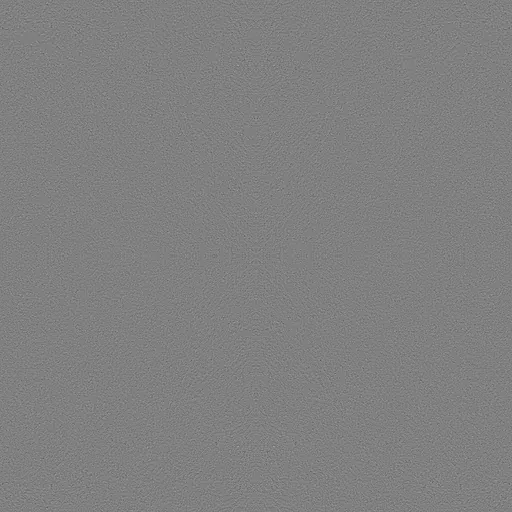
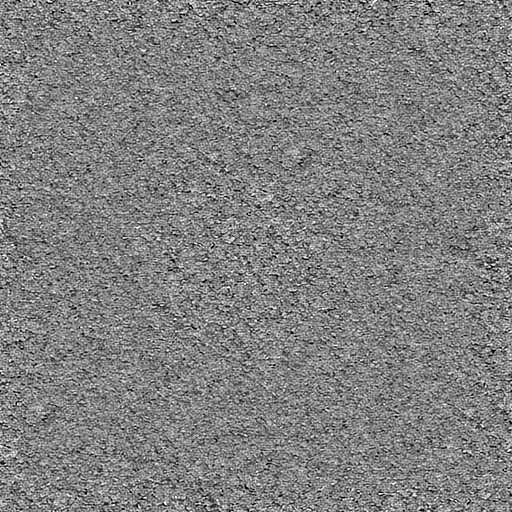
feat: visible grass/dirt grain in every view; batted-ball scene goes back to the old stands
- stronger seamless grain textures (destriped grass, clay dirt with medium mottling)
- 3D ground: grain laid per 45ft cell with an affine pattern transform, fades out where it would shimmer
- 3D stands use field.webp (the previous crowd art) so fans do not look huge up close

diff --git a/js/ui/art/field3d.js b/js/ui/art/field3d.js
@@ -1,7 +1,7 @@
 // 3D 타구 화면: playscript 대본을 중계 카메라처럼 그린다.
 // 경기장·공·선수를 3D 좌표(피트)로 두고, 홈 뒤 높은 곳의 카메라가 공과 수비수를 따라 돌고 당겨서(줌) 비춘다.
 import { toSec, trackAt, ballAt, fenceAt, BASES, polar, FENCE_H, jumpZ } from './playscript.js';
-import { standsImage } from './stadium.js';
+import { standsImage, groundTexture } from './stadium.js';
 import { drawBall } from './figures.js';
 import { fieldSprite, fieldCount, FIELD_PX } from './sprites.js';
 
@@ -160,7 +160,7 @@ function texQuad3(ctx, K, img, P, UV, color) {
 const quadFill = (ctx, ps, color) => { ctx.fillStyle = color; ctx.beginPath(); ps.forEach((p, i) => i ? ctx.lineTo(p.x, p.y) : ctx.moveTo(p.x, p.y)); ctx.closePath(); ctx.fill(); };
 const offscreen = (K, ps) => ps.every(p => p.x < -50) || ps.every(p => p.x > K.W + 50) || ps.every(p => p.y < -50) || ps.every(p => p.y > K.H + 50);
 const SPAN_A = 54;                                        // 외야 관중석 그림이 덮는 각도(±), 폴 옆 꺾인 곳까지
-const DEP = 175, HT = 215, ROW = 675, TOP = 250;          // 관중석: 바깥으로 DEP, 펜스 위로 HT 만큼 올라가는 경사면 / 그림에서 쓰는 줄(TOP~ROW: 전광판 아래 관중만)
+const DEP = 175, HT = 215, ROW = 675;                     // 관중석: 바깥으로 DEP, 펜스 위로 HT 만큼 올라가는 경사면 / 그림에서 쓰는 높이
 // 파울 지역 옆 관중석: 아랫단(b)·바깥 방향(o)·단면(pr: [바깥 거리, 높이] 세 점 = 아래층·위층)·위아래층 경계의 그림 높이(v)·그림 가로 위치(u, 0..1).
 // 외야 관중석 끝에서 시작해 바깥 방향을 파울 쪽 벽에 수직으로 서서히 돌리고, 그림은 끝에서 거울처럼 되짚어 이어 붙인다.
 // 중계 카메라(홈 뒤 62피트)는 파울 쪽 벽을 늘인 선보다 바깥에 있어서, 외야처럼 가파르면 경사면 뒤쪽이 보인다(= 안 그려져 하늘이 뚫림).
@@ -195,7 +195,7 @@ const SIDE = (() => {
   return out;
 })();
 function drawStands(ctx, K, crowdTint) {
-  const img = standsImage('catcher');
+  const img = standsImage('field');
   // 외야: 관중석 그림을 펜스 뒤에 빙 둘러 세운다
   const step = 2;
   for (let a = -SPAN_A; a < SPAN_A - 0.01; a += step) {
@@ -205,7 +205,7 @@ function drawStands(ctx, K, crowdTint) {
     const bl = project(K, [...polar(a, R0), FENCE_H]), br = project(K, [...polar(a1, R1), FENCE_H]);
     if (!tl || !tr || !bl || !br || offscreen(K, [tl, tr, bl, br])) continue;
     if (!img) quadFill(ctx, [tl, tr, br, bl], crowdTint);
-    else imgQuad(ctx, img, (a + SPAN_A) / (2 * SPAN_A) * img.width, (a1 + SPAN_A) / (2 * SPAN_A) * img.width, TOP, ROW, tl, tr, bl, br);
+    else imgQuad(ctx, img, (a + SPAN_A) / (2 * SPAN_A) * img.width, (a1 + SPAN_A) / (2 * SPAN_A) * img.width, 0, ROW, tl, tr, bl, br);
   }
   // 파울 지역 옆 관중석: 외야 관중석 끝(폴 옆 꺾인 곳)에서 같은 높이·경사로 홈 쪽까지 이어 붙인다.
   // (예전엔 낮은 관중석만 따로 두어서, 좌중간·우중간을 비추면 그 위로 하늘이 뚫려 관중석 조각이 떠 보였다)
@@ -221,7 +221,7 @@ function drawStands(ctx, K, crowdTint) {
       if ((K.C[0] - lo[0]) * n[0] + (K.C[1] - lo[1]) * n[1] + (K.C[2] - lo[2]) * n[2] < 0) continue;
       // 위아래로 몇 조각 나눠 그린다(가까이서 크게 보일 때 그림이 덜 일그러지게)
       const T0 = at(p0, layer + 1), T1 = at(p1, layer + 1), B0 = at(p0, layer), B1 = at(p1, layer);
-      const u0 = p0.u * (img ? img.width : 1), u1 = p1.u * (img ? img.width : 1), v0 = layer ? TOP : p0.v, v1 = layer ? p0.v : ROW;
+      const u0 = p0.u * (img ? img.width : 1), u1 = p1.u * (img ? img.width : 1), v0 = layer ? 0 : p0.v, v1 = layer ? p0.v : ROW;
       const N = 3, mix = (a, b, k) => [lerp(a[0], b[0], k), lerp(a[1], b[1], k), lerp(a[2], b[2], k)];
       for (let j = 0; j < N; j++) {
         const k0 = j / N, k1 = (j + 1) / N, va = lerp(v0, v1, k0), vb = lerp(v0, v1, k1);
@@ -233,7 +233,7 @@ function drawStands(ctx, K, crowdTint) {
 // 카메라 가까운 쪽 관중석: 아래층 관중 그림을 무늬로 깔고, 카메라를 따라 움직이게 한다
 let crowdPat = null;
 function drawOuter(ctx, K) {
-  const img = standsImage('catcher');
+  const img = standsImage('field');
   if (img && !crowdPat) {
     const c = document.createElement('canvas'); c.width = Math.round(img.width * 0.35); c.height = Math.round(235 * 0.35);
     const x = c.getContext('2d');
@@ -249,6 +249,29 @@ function drawOuter(ctx, K) {
   } else ctx.fillStyle = '#2c333f';
   ctx.fill();
 }
+// 사진에서 뽑은 잔디·흙 결을 바닥에 입힌다: 바닥을 칸으로 나눠 칸마다 무늬를 원근(아핀)에 맞춰 overlay로 칠한다.
+// 아주 멀어서 무늬가 자글거릴 칸은 점점 흐리게, 카메라 뒤로 넘어간 칸은 건너뛴다
+const CELL = 45, TEX_FT = 55;                             // 칸 크기(피트), 무늬 한 장(512px)이 덮는 길이(피트)
+function groundGrain(ctx, K, k, clipPts, x0, x1, y0, y1, alpha) {
+  const img = groundTexture(k);
+  if (!img || !polyPath(ctx, K, clipPts)) return;
+  ctx.save(); ctx.clip(); ctx.globalCompositeOperation = 'overlay';
+  const pat = ctx.createPattern(img, 'repeat'), tp = 512 / TEX_FT;
+  if (!pat.setTransform) { ctx.restore(); return; }
+  for (let x = x0; x < x1; x += CELL) for (let y = y0; y < y1; y += CELL) {
+    const a = project(K, [x, y, 0]), b = project(K, [x + CELL, y, 0]), c = project(K, [x, y + CELL, 0]), d = project(K, [x + CELL, y + CELL, 0]);
+    if (!a || !b || !c || !d || offscreen(K, [a, b, c, d])) continue;
+    const du = CELL * tp, m = new DOMMatrix([(b.x - a.x) / du, (b.y - a.y) / du, (c.x - a.x) / du, (c.y - a.y) / du, 0, 0]);
+    const px = Math.sqrt(Math.abs(m.a * m.d - m.b * m.c));      // 무늬 한 칸이 화면에서 몇 픽셀인지
+    const f = Math.min(1, Math.max(0, (px - 0.12) / 0.3));
+    if (f <= 0) continue;
+    m.e = a.x - m.a * x * tp - m.c * y * tp; m.f = a.y - m.b * x * tp - m.d * y * tp;
+    pat.setTransform(m);
+    ctx.globalAlpha = alpha * f; ctx.fillStyle = pat;
+    ctx.beginPath(); ctx.moveTo(a.x, a.y); ctx.lineTo(b.x, b.y); ctx.lineTo(d.x, d.y); ctx.lineTo(c.x, c.y); ctx.closePath(); ctx.fill();
+  }
+  ctx.restore();
+}
 function drawGround(ctx, K, bases) {
   fillPoly(ctx, K, RING, '#3a8a45');
   // 잔디 깎은 무늬(페어 지역만)
@@ -260,9 +283,13 @@ function drawGround(ctx, K, bases) {
     for (let x = -330; x < 330; x += 30) if (polyPath(ctx, K, [[x, 0], [x + 15, 0], [x + 15, 430], [x, 430]])) ctx.fill();
     ctx.restore();
   }
+  groundGrain(ctx, K, 'grass_tex', RING, -450, 450, -90, 450, 0.65);   // 흙은 그 위에 덮어 칠한다
   fillPoly(ctx, K, TRACK, '#a07a52');
   fillPoly(ctx, K, DIRT, '#b98a5e');
+  groundGrain(ctx, K, 'dirt_tex', DIRT, -100, 100, -40, 160, 0.8);
+  groundGrain(ctx, K, 'dirt_tex', TRACK, -450, 450, 150, 450, 0.8);
   fillPoly(ctx, K, INGRASS, '#3f9049');
+  groundGrain(ctx, K, 'grass_tex', INGRASS, -60, 60, 10, 120, 0.65);
   fillPoly(ctx, K, circle(0, 60.5, 9, 20), '#c2946a');
   fillPoly(ctx, K, circle(0, 0, 13, 24), '#b98a5e');
   LINES.forEach(q => fillPoly(ctx, K, q, 'rgba(255,255,255,.92)', 0.02));

diff --git a/js/ui/art/stadium.js b/js/ui/art/stadium.js
@@ -39,6 +39,7 @@ if (typeof Image !== 'undefined') {
     img.src = new URL(`../../../assets/stadium/${k}.webp`, import.meta.url).href;
   }
 }
+export const groundTexture = k => TEX[k] || null;
 function texture(ctx, k, y0, y1, alpha, near, far) {
   const img = TEX[k];
   if (!img || y1 <= y0) return;
@@ -62,7 +63,7 @@ function grass(ctx, W, H, top, vx, spread, rng) {
   }
   for (let y = top + 10; y < H; y += 22) { ctx.fillStyle = 'rgba(0,0,0,.035)'; ctx.fillRect(0, y, W, 9); }  // 가로 무늬
   speckle(ctx, 0, top, W, H - top, rng, Math.floor(W * (H - top) / 60), ['rgba(0,40,0,.18)', 'rgba(140,220,120,.10)']);
-  texture(ctx, 'grass_tex', top, H, 0.9, 0.45, 0.12);
+  texture(ctx, 'grass_tex', top, H, 1, 0.6, 0.18);
 }
 function dirtEllipse(ctx, x, y, rx, ry, rng, a0 = 0, a1 = Math.PI * 2) {
   const g = ctx.createRadialGradient(x, y - ry * 0.3, ry * 0.2, x, y, Math.max(rx, ry));
@@ -70,7 +71,7 @@ function dirtEllipse(ctx, x, y, rx, ry, rng, a0 = 0, a1 = Math.PI * 2) {
   ctx.fillStyle = g; ctx.beginPath(); ctx.ellipse(x, y, rx, ry, 0, a0, a1); ctx.fill();
   ctx.save(); ctx.clip();
   speckle(ctx, x - rx, y - ry, rx * 2, ry * 2, rng, Math.floor(rx * ry / 8), ['rgba(80,45,20,.22)', 'rgba(255,230,190,.16)'], 1.2);
-  texture(ctx, 'dirt_tex', y - ry, y + ry, 0.9, 0.3 * Math.min(1, ry / 40) + 0.1, 0.1);
+  texture(ctx, 'dirt_tex', y - ry, y + ry, 1, 0.5 * Math.min(1, ry / 40) + 0.1, 0.15);
   ctx.restore();
 }
 function adBoards(ctx, W, y, h, team) {
@@ -100,7 +101,7 @@ function plate(ctx, x, y, w, flip) {
 // 관중석 일러스트(assets/stadium). 불러오기 전/실패하면 코드로 그린 관중석을 쓴다.
 const STANDS = {};
 if (typeof Image !== 'undefined') {
-  for (const k of ['catcher', 'pitcher']) {
+  for (const k of ['catcher', 'pitcher', 'field']) {   // field: 타구 장면(3D) 관중석(멀리서 봐도 사람이 너무 커 보이지 않는 그림)
     const img = new Image();
     img.onload = () => { STANDS[k] = img; };
     img.src = new URL(`../../../assets/stadium/${k}.webp`, import.meta.url).href;
